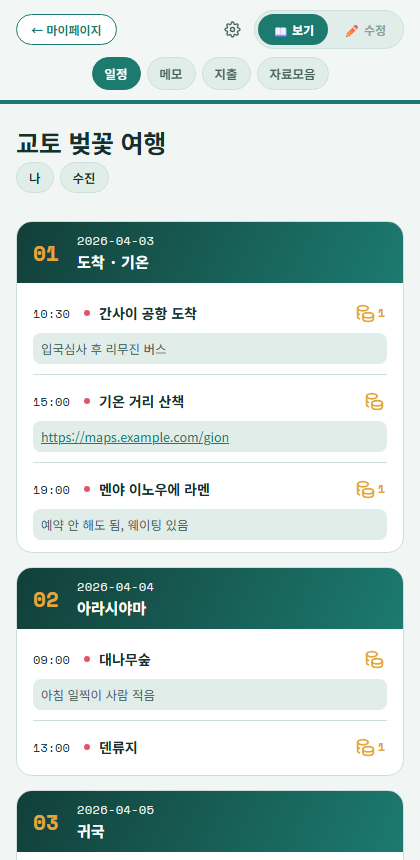
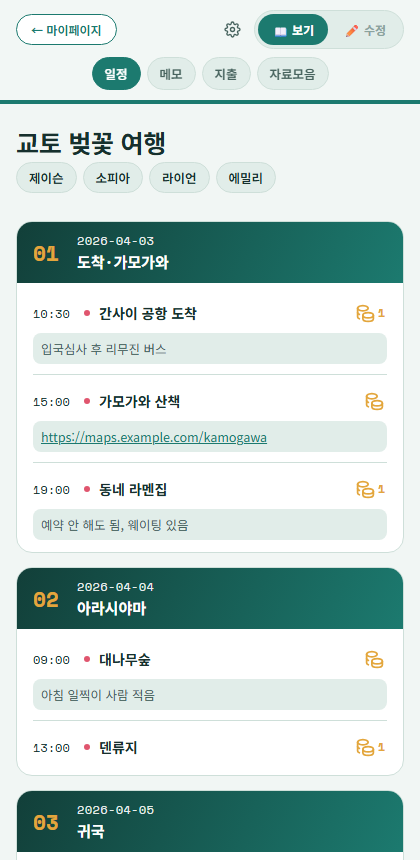
docs: 가이드 페이지 콘텐츠 개편 — 실명 노출 제거, 테마 실사 미리보기, 용어 순화
- 예시 여행 인물 4명을 영어 이름(한글 표기)으로 교체
- "기온" 지명을 다른 곳으로 변경, "이노우에 라멘"(교토 기타노텐만구
  인근 실제 50년 된 가게)을 일반 명칭으로 교체. 점검 중 메모 예시에
  섞여 있던 실제 브랜드명(이치란, 이세탄)도 함께 정리
- 테마 페이지에 5개 테마의 실제 화면(일차 카드 헤더) 미리보기 그리드 추가
- "협업" 용어를 "친구와 같이하기"로 순화, 지출 정산 관련 미확정 약속 삭제
- FAQ: 무료 사용량은 구체적 수치 대신 "기본 기능은 무료" 식으로 완화
  (정책 변경 여지), 오프라인 질문은 실제 동작(온라인 저장 + 재연결 시
  자동 저장)에 맞게 수정

diff --git a/guide/faq.html b/guide/faq.html
@@ -37,11 +37,11 @@
   <p class="g-lede"></p>
   
 <details class="g-faq" open><summary>회원가입이 따로 필요한가요?</summary><p>아니요. Google 계정으로 로그인만 하면 바로 사용할 수 있습니다.</p></details>
-<details class="g-faq"><summary>무료로 얼마나 쓸 수 있나요?</summary><p>여행 3개, 사진 여행당 10장, 기본 테마 3종까지 무료입니다. 더 필요하면 프리미엄이나 부가상품으로 확장할 수 있어요.</p></details>
-<details class="g-faq"><summary>다른 사람과 같이 일정을 짤 수 있나요?</summary><p>실시간 협업 기능을 준비 중이며, 완전 무료로 제공될 예정입니다.</p></details>
+<details class="g-faq"><summary>무료로 얼마나 쓸 수 있나요?</summary><p>일정 관리, 메모, 지출 기록 같은 기본적인 기능은 무료로 사용할 수 있어요. 더 많은 용량이나 특별한 기능은 나중에 선택 상품으로 추가될 수 있습니다.</p></details>
+<details class="g-faq"><summary>친구랑 같이 일정을 짤 수 있나요?</summary><p>친구를 초대해서 같이 일정을 짜는 기능을 준비 중이에요. 완전 무료로 제공될 예정입니다.</p></details>
 <details class="g-faq"><summary>여러 나라 통화를 같이 기록할 수 있나요?</summary><p>네, 지출마다 통화를 따로 선택할 수 있고 통화별로 합계가 자동 계산됩니다.</p></details>
 <details class="g-faq"><summary>계정을 삭제하면 데이터는 어떻게 되나요?</summary><p>삭제를 요청하시면 관련 법령상 보존 의무가 있는 경우를 제외하고 지체 없이 파기합니다. 자세한 내용은 개인정보처리방침을 확인해주세요.</p></details>
-<details class="g-faq"><summary>인터넷이 안 될 때도 쓸 수 있나요?</summary><p>현재는 온라인 연결이 필요합니다. 오프라인 사용 지원을 준비하고 있어요.</p></details>
+<details class="g-faq"><summary>인터넷이 안 될 때도 쓸 수 있나요?</summary><p>온라인 상태일 때 자동으로 저장돼요. 쓰는 도중에 인터넷이 잠깐 끊기더라도 입력한 내용은 그대로 남아있다가, 다시 연결되면 자동으로 저장됩니다.</p></details>
 
   <div class="g-pageend-cta">
     <h2>지금 바로 여행을 계획해보세요</h2>
@@ -52,7 +52,7 @@
     <h2>다른 가이드 보기</h2>
     <ul>
       <li><a href="index.html">개요</a></li>
-      <li><a href="getting-started.html">시작하기</a></li><li><a href="schedule.html">일정 만들기</a></li><li><a href="expenses.html">지출 기록</a></li><li><a href="notes.html">메모·체크리스트</a></li><li><a href="materials.html">자료모음</a></li><li><a href="themes.html">테마</a></li><li><a href="share-pdf.html">공유·PDF</a></li><li><a href="collab.html">협업 (곧 지원)</a></li>
+      <li><a href="getting-started.html">시작하기</a></li><li><a href="schedule.html">일정 만들기</a></li><li><a href="expenses.html">지출 기록</a></li><li><a href="notes.html">메모·체크리스트</a></li><li><a href="materials.html">자료모음</a></li><li><a href="themes.html">테마</a></li><li><a href="share-pdf.html">공유·PDF</a></li><li><a href="collab.html">친구와 같이하기 (곧 지원)</a></li>
     </ul>
   </div>
 </article>

diff --git a/guide/en/faq.html b/guide/en/faq.html
@@ -37,11 +37,11 @@
   <p class="g-lede"></p>
   
 <details class="g-faq" open><summary>Do I need to create a separate account?</summary><p>No. Just sign in with your Google account and you're ready to go.</p></details>
-<details class="g-faq"><summary>How much can I use for free?</summary><p>3 trips, 10 photos per trip, and 3 base themes are free. You can expand with premium or à la carte add-ons if you need more.</p></details>
-<details class="g-faq"><summary>Can I plan a trip together with others?</summary><p>Real-time collaboration is coming soon, and it will be completely free.</p></details>
+<details class="g-faq"><summary>How much can I use for free?</summary><p>Core features like your itinerary, notes, and expense tracking are free to use. More capacity or extra features may be added later as optional add-ons.</p></details>
+<details class="g-faq"><summary>Can I plan a trip together with friends?</summary><p>Inviting friends to plan a trip together is coming soon, and it will be completely free.</p></details>
 <details class="g-faq"><summary>Can I track expenses in multiple currencies?</summary><p>Yes — pick a currency per expense, and totals are calculated automatically per currency.</p></details>
 <details class="g-faq"><summary>What happens to my data if I delete my account?</summary><p>Requested deletions are processed without delay, except where retention is legally required. See our Privacy Policy for details.</p></details>
-<details class="g-faq"><summary>Can I use it offline?</summary><p>An internet connection is currently required. Offline support is on our roadmap.</p></details>
+<details class="g-faq"><summary>Can I use it offline?</summary><p>Your trip saves automatically while you're online. If your connection drops while you're using it, what you typed stays in place and saves automatically once you're back online.</p></details>
 
   <div class="g-pageend-cta">
     <h2>Start planning your trip now</h2>
@@ -52,7 +52,7 @@
     <h2>More guides</h2>
     <ul>
       <li><a href="index.html">Overview</a></li>
-      <li><a href="getting-started.html">Getting Started</a></li><li><a href="schedule.html">Building an Itinerary</a></li><li><a href="expenses.html">Tracking Expenses</a></li><li><a href="notes.html">Notes & Checklists</a></li><li><a href="materials.html">Links & Photos</a></li><li><a href="themes.html">Color Themes</a></li><li><a href="share-pdf.html">Sharing & PDF</a></li><li><a href="collab.html">Collaboration (Coming Soon)</a></li>
+      <li><a href="getting-started.html">Getting Started</a></li><li><a href="schedule.html">Building an Itinerary</a></li><li><a href="expenses.html">Tracking Expenses</a></li><li><a href="notes.html">Notes & Checklists</a></li><li><a href="materials.html">Links & Photos</a></li><li><a href="themes.html">Color Themes</a></li><li><a href="share-pdf.html">Sharing & PDF</a></li><li><a href="collab.html">Plan Together (Coming Soon)</a></li>
     </ul>
   </div>
 </article>

diff --git a/guide/collab.html b/guide/collab.html
@@ -3,14 +3,14 @@
 <head>
 <meta charset="UTF-8">
 <meta name="viewport" content="width=device-width, initial-scale=1.0">
-<title>협업 (곧 지원) — Travel Template 사용 가이드</title>
-<meta name="description" content="친구를 초대해 같이 여행 계획을 짜는 협업 기능 소개.">
+<title>친구와 같이하기 (곧 지원) — Travel Template 사용 가이드</title>
+<meta name="description" content="친구를 초대해 같이 여행 계획을 짜는 기능 소개.">
 <link rel="canonical" href="https://emalration2-sketch.github.io/travel-template-v2/guide/collab.html">
 <link rel="alternate" hreflang="ko" href="https://emalration2-sketch.github.io/travel-template-v2/guide/collab.html">
 <link rel="alternate" hreflang="en" href="https://emalration2-sketch.github.io/travel-template-v2/guide/en/collab.html">
 <link rel="alternate" hreflang="x-default" href="https://emalration2-sketch.github.io/travel-template-v2/guide/collab.html">
-<meta property="og:title" content="협업 (곧 지원) — Travel Template 사용 가이드">
-<meta property="og:description" content="친구를 초대해 같이 여행 계획을 짜는 협업 기능 소개.">
+<meta property="og:title" content="친구와 같이하기 (곧 지원) — Travel Template 사용 가이드">
+<meta property="og:description" content="친구를 초대해 같이 여행 계획을 짜는 기능 소개.">
 <meta property="og:type" content="website">
 <meta property="og:url" content="https://emalration2-sketch.github.io/travel-template-v2/guide/collab.html">
 <meta property="og:image" content="https://emalration2-sketch.github.io/travel-template-v2/guide/img/collab-ko.png">
@@ -33,16 +33,15 @@
 </header>
 <article class="g-article g-wrap">
   <p class="g-kicker">곧 지원</p>
-  <h1>협업</h1>
+  <h1>친구와 같이하기</h1>
   <p class="g-lede">친구·가족을 초대해서 같이 일정을 짜는 기능을 준비하고 있어요. 완전 무료로 제공될 예정입니다.</p>
   
-<p>단체 여행을 계획할 때 한 사람이 다 짜는 대신, 여러 명이 동시에 일정을 채워나갈 수 있게 됩니다.</p>
+<p>혼자 다 짜는 대신, 여러 명이 함께 일정을 채워나갈 수 있게 됩니다.</p>
 <ul>
   <li>초대 링크로 친구 추가</li>
   <li>여러 명이 동시에 편집</li>
-  <li>누가 얼마 냈는지 지출 정산 (프리미엄)</li>
 </ul>
-<div class="g-note">협업 기능이 열리면 이 페이지에서 가장 먼저 안내해드릴게요.</div>
+<div class="g-note">이 기능이 열리면 이 페이지에서 가장 먼저 안내해드릴게요.</div>
 
   <div class="g-pageend-cta">
     <h2>지금 바로 여행을 계획해보세요</h2>

diff --git a/guide/en/collab.html b/guide/en/collab.html
@@ -3,14 +3,14 @@
 <head>
 <meta charset="UTF-8">
 <meta name="viewport" content="width=device-width, initial-scale=1.0">
-<title>Collaboration (Coming Soon) — Travel Template Guide</title>
-<meta name="description" content="A look at the upcoming collaboration feature for planning trips together.">
+<title>Plan Together (Coming Soon) — Travel Template Guide</title>
+<meta name="description" content="A look at the upcoming feature for planning trips together with friends.">
 <link rel="canonical" href="https://emalration2-sketch.github.io/travel-template-v2/guide/en/collab.html">
 <link rel="alternate" hreflang="ko" href="https://emalration2-sketch.github.io/travel-template-v2/guide/collab.html">
 <link rel="alternate" hreflang="en" href="https://emalration2-sketch.github.io/travel-template-v2/guide/en/collab.html">
 <link rel="alternate" hreflang="x-default" href="https://emalration2-sketch.github.io/travel-template-v2/guide/collab.html">
-<meta property="og:title" content="Collaboration (Coming Soon) — Travel Template Guide">
-<meta property="og:description" content="A look at the upcoming collaboration feature for planning trips together.">
+<meta property="og:title" content="Plan Together (Coming Soon) — Travel Template Guide">
+<meta property="og:description" content="A look at the upcoming feature for planning trips together with friends.">
 <meta property="og:type" content="website">
 <meta property="og:url" content="https://emalration2-sketch.github.io/travel-template-v2/guide/en/collab.html">
 <meta property="og:image" content="https://emalration2-sketch.github.io/travel-template-v2/guide/img/collab-en.png">
@@ -33,16 +33,15 @@
 </header>
 <article class="g-article g-wrap">
   <p class="g-kicker">Coming Soon</p>
-  <h1>Collaboration</h1>
+  <h1>Plan Together</h1>
   <p class="g-lede">We're building the ability to invite friends and family to plan a trip together — and it will be completely free.</p>
   
-<p>Instead of one person building the whole itinerary, multiple people will be able to fill it in together in real time.</p>
+<p>Instead of one person building the whole itinerary, multiple people will be able to fill it in together.</p>
 <ul>
   <li>Invite friends with a link</li>
   <li>Multiple people editing at once</li>
-  <li>Split expenses and see who paid what (premium)</li>
 </ul>
-<div class="g-note">We'll announce it here first once collaboration ships.</div>
+<div class="g-note">We'll announce it here first once this feature ships.</div>
 
   <div class="g-pageend-cta">
     <h2>Start planning your trip now</h2>

diff --git a/guide/themes.html b/guide/themes.html
@@ -36,8 +36,10 @@
   <h1>테마</h1>
   <p class="g-lede">오션·모노 슬레이트·미드나잇·아쿠아마린·선라이즈, 5가지 테마 중 골라보세요.</p>
   
-<div class="g-shot"><img src="img/themes-ko.png" alt="테마 선택 화면" loading="lazy"><div class="g-shot-cap">테마 선택 화면</div></div>
+<h2>실제 화면 미리보기</h2>
+<div class="g-theme-grid"><div class="g-theme-card"><img src="img/theme-a.png" alt="오션" loading="lazy"><span>오션</span></div><div class="g-theme-card"><img src="img/theme-b.png" alt="모노 슬레이트" loading="lazy"><span>모노 슬레이트</span></div><div class="g-theme-card"><img src="img/theme-c.png" alt="미드나잇" loading="lazy"><span>미드나잇</span></div><div class="g-theme-card"><img src="img/theme-d.png" alt="아쿠아마린" loading="lazy"><span>아쿠아마린</span></div><div class="g-theme-card"><img src="img/theme-e.png" alt="선라이즈" loading="lazy"><span>선라이즈</span></div></div>
 <h2>테마 바꾸기</h2>
+<div class="g-shot"><img src="img/themes-ko.png" alt="테마 선택 화면" loading="lazy"><div class="g-shot-cap">테마 선택 화면</div></div>
 <p>내 정보 및 옵션 → 컬러 테마에서 원하는 테마를 누르면 바로 적용됩니다.</p>
 <p>테마는 계정 전체에 적용되며, PDF로 저장할 때도 선택한 테마 색상 그대로 담깁니다.</p>
 
@@ -50,7 +52,7 @@
     <h2>다른 가이드 보기</h2>
     <ul>
       <li><a href="index.html">개요</a></li>
-      <li><a href="getting-started.html">시작하기</a></li><li><a href="schedule.html">일정 만들기</a></li><li><a href="expenses.html">지출 기록</a></li><li><a href="notes.html">메모·체크리스트</a></li><li><a href="materials.html">자료모음</a></li><li><a href="share-pdf.html">공유·PDF</a></li><li><a href="collab.html">협업 (곧 지원)</a></li><li><a href="faq.html">자주 묻는 질문</a></li>
+      <li><a href="getting-started.html">시작하기</a></li><li><a href="schedule.html">일정 만들기</a></li><li><a href="expenses.html">지출 기록</a></li><li><a href="notes.html">메모·체크리스트</a></li><li><a href="materials.html">자료모음</a></li><li><a href="share-pdf.html">공유·PDF</a></li><li><a href="collab.html">친구와 같이하기 (곧 지원)</a></li><li><a href="faq.html">자주 묻는 질문</a></li>
     </ul>
   </div>
 </article>

diff --git a/guide/en/themes.html b/guide/en/themes.html
@@ -36,8 +36,10 @@
   <h1>Color Themes</h1>
   <p class="g-lede">Choose from Ocean, Mono Slate, Midnight, Aquamarine, and Sunrise.</p>
   
-<div class="g-shot"><img src="../img/themes-en.png" alt="Theme picker" loading="lazy"><div class="g-shot-cap">Theme picker</div></div>
+<h2>A real look at each theme</h2>
+<div class="g-theme-grid"><div class="g-theme-card"><img src="../img/theme-a.png" alt="Ocean" loading="lazy"><span>Ocean</span></div><div class="g-theme-card"><img src="../img/theme-b.png" alt="Mono Slate" loading="lazy"><span>Mono Slate</span></div><div class="g-theme-card"><img src="../img/theme-c.png" alt="Midnight" loading="lazy"><span>Midnight</span></div><div class="g-theme-card"><img src="../img/theme-d.png" alt="Aquamarine" loading="lazy"><span>Aquamarine</span></div><div class="g-theme-card"><img src="../img/theme-e.png" alt="Sunrise" loading="lazy"><span>Sunrise</span></div></div>
 <h2>Change your theme</h2>
+<div class="g-shot"><img src="../img/themes-en.png" alt="Theme picker" loading="lazy"><div class="g-shot-cap">Theme picker</div></div>
 <p>Go to Account & Options → Color theme and tap any theme to apply it instantly.</p>
 <p>Your theme applies across your account, and PDF exports keep the same colors.</p>
 
@@ -50,7 +52,7 @@
     <h2>More guides</h2>
     <ul>
       <li><a href="index.html">Overview</a></li>
-      <li><a href="getting-started.html">Getting Started</a></li><li><a href="schedule.html">Building an Itinerary</a></li><li><a href="expenses.html">Tracking Expenses</a></li><li><a href="notes.html">Notes & Checklists</a></li><li><a href="materials.html">Links & Photos</a></li><li><a href="share-pdf.html">Sharing & PDF</a></li><li><a href="collab.html">Collaboration (Coming Soon)</a></li><li><a href="faq.html">FAQ</a></li>
+      <li><a href="getting-started.html">Getting Started</a></li><li><a href="schedule.html">Building an Itinerary</a></li><li><a href="expenses.html">Tracking Expenses</a></li><li><a href="notes.html">Notes & Checklists</a></li><li><a href="materials.html">Links & Photos</a></li><li><a href="share-pdf.html">Sharing & PDF</a></li><li><a href="collab.html">Plan Together (Coming Soon)</a></li><li><a href="faq.html">FAQ</a></li>
     </ul>
   </div>
 </article>

diff --git a/guide/schedule.html b/guide/schedule.html
@@ -46,7 +46,7 @@
 <h2>일차 이동</h2>
 <p>화면을 스크롤하는 동안 왼쪽에 반투명한 이동 표시가 나타나요. 점을 눌러 원하는 날짜로 바로 이동할 수 있습니다.</p>
 <h2>동행자 추가</h2>
-<p>상단의 이름 태그에서 같이 가는 사람을 추가·삭제할 수 있어요. (계정 공유가 아니라 표시용입니다 — 실시간 협업은 곧 지원됩니다.)</p>
+<p>상단의 이름 태그에서 같이 가는 사람을 추가·삭제할 수 있어요. (계정을 같이 쓰는 건 아니고 표시용이에요 — 친구와 같이 계획을 짜는 기능은 곧 지원될 예정입니다.)</p>
 
   <div class="g-pageend-cta">
     <h2>지금 바로 여행을 계획해보세요</h2>
@@ -57,7 +57,7 @@
     <h2>다른 가이드 보기</h2>
     <ul>
       <li><a href="index.html">개요</a></li>
-      <li><a href="getting-started.html">시작하기</a></li><li><a href="expenses.html">지출 기록</a></li><li><a href="notes.html">메모·체크리스트</a></li><li><a href="materials.html">자료모음</a></li><li><a href="themes.html">테마</a></li><li><a href="share-pdf.html">공유·PDF</a></li><li><a href="collab.html">협업 (곧 지원)</a></li><li><a href="faq.html">자주 묻는 질문</a></li>
+      <li><a href="getting-started.html">시작하기</a></li><li><a href="expenses.html">지출 기록</a></li><li><a href="notes.html">메모·체크리스트</a></li><li><a href="materials.html">자료모음</a></li><li><a href="themes.html">테마</a></li><li><a href="share-pdf.html">공유·PDF</a></li><li><a href="collab.html">친구와 같이하기 (곧 지원)</a></li><li><a href="faq.html">자주 묻는 질문</a></li>
     </ul>
   </div>
 </article>

diff --git a/guide/en/schedule.html b/guide/en/schedule.html
@@ -46,7 +46,7 @@
 <h2>Jump between days</h2>
 <p>While scrolling, a translucent day-jump rail appears on the left. Tap a dot to jump straight to that day.</p>
 <h2>Add travelers</h2>
-<p>Add or remove names in the traveler chips at the top. (This is just a display label, not shared accounts — real-time collaboration is coming soon.)</p>
+<p>Add or remove names in the traveler chips at the top. (It's just a label, not a shared account — planning together with friends is coming soon.)</p>
 
   <div class="g-pageend-cta">
     <h2>Start planning your trip now</h2>
@@ -57,7 +57,7 @@
     <h2>More guides</h2>
     <ul>
       <li><a href="index.html">Overview</a></li>
-      <li><a href="getting-started.html">Getting Started</a></li><li><a href="expenses.html">Tracking Expenses</a></li><li><a href="notes.html">Notes & Checklists</a></li><li><a href="materials.html">Links & Photos</a></li><li><a href="themes.html">Color Themes</a></li><li><a href="share-pdf.html">Sharing & PDF</a></li><li><a href="collab.html">Collaboration (Coming Soon)</a></li><li><a href="faq.html">FAQ</a></li>
+      <li><a href="getting-started.html">Getting Started</a></li><li><a href="expenses.html">Tracking Expenses</a></li><li><a href="notes.html">Notes & Checklists</a></li><li><a href="materials.html">Links & Photos</a></li><li><a href="themes.html">Color Themes</a></li><li><a href="share-pdf.html">Sharing & PDF</a></li><li><a href="collab.html">Plan Together (Coming Soon)</a></li><li><a href="faq.html">FAQ</a></li>
     </ul>
   </div>
 </article>

diff --git a/guide/index.html b/guide/index.html
@@ -52,7 +52,7 @@
   </div>
   <div class="g-toc">
     <h2>더 알아보기</h2>
-    <ul><li><a href="getting-started.html">시작하기</a></li><li><a href="schedule.html">일정 만들기</a></li><li><a href="expenses.html">지출 기록</a></li><li><a href="notes.html">메모·체크리스트</a></li><li><a href="materials.html">자료모음</a></li><li><a href="themes.html">테마</a></li><li><a href="share-pdf.html">공유·PDF</a></li><li><a href="collab.html">협업 (곧 지원)</a></li><li><a href="faq.html">자주 묻는 질문</a></li></ul>
+    <ul><li><a href="getting-started.html">시작하기</a></li><li><a href="schedule.html">일정 만들기</a></li><li><a href="expenses.html">지출 기록</a></li><li><a href="notes.html">메모·체크리스트</a></li><li><a href="materials.html">자료모음</a></li><li><a href="themes.html">테마</a></li><li><a href="share-pdf.html">공유·PDF</a></li><li><a href="collab.html">친구와 같이하기 (곧 지원)</a></li><li><a href="faq.html">자주 묻는 질문</a></li></ul>
   </div>
 </div>
 <footer class="g-footer">

diff --git a/guide/en/index.html b/guide/en/index.html
@@ -52,7 +52,7 @@
   </div>
   <div class="g-toc">
     <h2>Learn more</h2>
-    <ul><li><a href="getting-started.html">Getting Started</a></li><li><a href="schedule.html">Building an Itinerary</a></li><li><a href="expenses.html">Tracking Expenses</a></li><li><a href="notes.html">Notes & Checklists</a></li><li><a href="materials.html">Links & Photos</a></li><li><a href="themes.html">Color Themes</a></li><li><a href="share-pdf.html">Sharing & PDF</a></li><li><a href="collab.html">Collaboration (Coming Soon)</a></li><li><a href="faq.html">FAQ</a></li></ul>
+    <ul><li><a href="getting-started.html">Getting Started</a></li><li><a href="schedule.html">Building an Itinerary</a></li><li><a href="expenses.html">Tracking Expenses</a></li><li><a href="notes.html">Notes & Checklists</a></li><li><a href="materials.html">Links & Photos</a></li><li><a href="themes.html">Color Themes</a></li><li><a href="share-pdf.html">Sharing & PDF</a></li><li><a href="collab.html">Plan Together (Coming Soon)</a></li><li><a href="faq.html">FAQ</a></li></ul>
   </div>
 </div>
 <footer class="g-footer">

diff --git a/guide/share-pdf.html b/guide/share-pdf.html
@@ -52,7 +52,7 @@
     <h2>다른 가이드 보기</h2>
     <ul>
       <li><a href="index.html">개요</a></li>
-      <li><a href="getting-started.html">시작하기</a></li><li><a href="schedule.html">일정 만들기</a></li><li><a href="expenses.html">지출 기록</a></li><li><a href="notes.html">메모·체크리스트</a></li><li><a href="materials.html">자료모음</a></li><li><a href="themes.html">테마</a></li><li><a href="collab.html">협업 (곧 지원)</a></li><li><a href="faq.html">자주 묻는 질문</a></li>
+      <li><a href="getting-started.html">시작하기</a></li><li><a href="schedule.html">일정 만들기</a></li><li><a href="expenses.html">지출 기록</a></li><li><a href="notes.html">메모·체크리스트</a></li><li><a href="materials.html">자료모음</a></li><li><a href="themes.html">테마</a></li><li><a href="collab.html">친구와 같이하기 (곧 지원)</a></li><li><a href="faq.html">자주 묻는 질문</a></li>
     </ul>
   </div>
 </article>

diff --git a/guide/expenses.html b/guide/expenses.html
@@ -55,7 +55,7 @@
     <h2>다른 가이드 보기</h2>
     <ul>
       <li><a href="index.html">개요</a></li>
-      <li><a href="getting-started.html">시작하기</a></li><li><a href="schedule.html">일정 만들기</a></li><li><a href="notes.html">메모·체크리스트</a></li><li><a href="materials.html">자료모음</a></li><li><a href="themes.html">테마</a></li><li><a href="share-pdf.html">공유·PDF</a></li><li><a href="collab.html">협업 (곧 지원)</a></li><li><a href="faq.html">자주 묻는 질문</a></li>
+      <li><a href="getting-started.html">시작하기</a></li><li><a href="schedule.html">일정 만들기</a></li><li><a href="notes.html">메모·체크리스트</a></li><li><a href="materials.html">자료모음</a></li><li><a href="themes.html">테마</a></li><li><a href="share-pdf.html">공유·PDF</a></li><li><a href="collab.html">친구와 같이하기 (곧 지원)</a></li><li><a href="faq.html">자주 묻는 질문</a></li>
     </ul>
   </div>
 </article>
